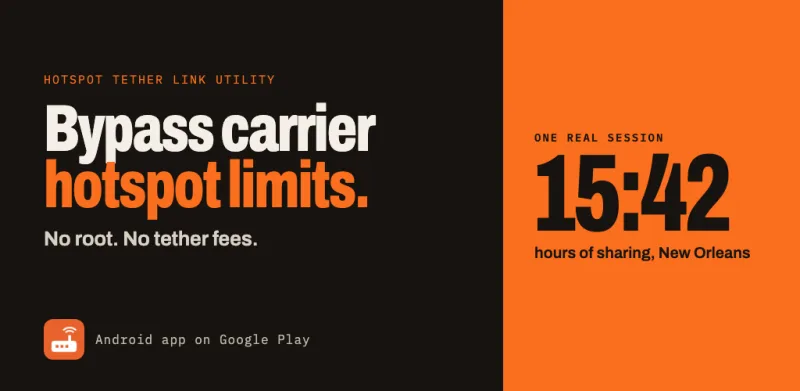
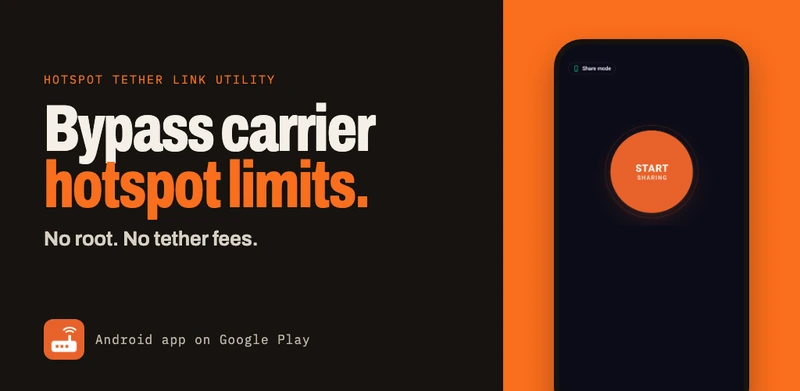
TLU card image: no city or session number

Changed region(s): [[0.6562, 0.0921, 0.9688, 1.0]]

diff --git a/tether-link-utility/index.html b/tether-link-utility/index.html
@@ -120,7 +120,7 @@
     </div>
 
     <figure class="app-shot" style="--hero-bg: linear-gradient(90deg, #EB6931, #E15C27)">
-      <img src="/assets/heroes/tether-link-utility.webp" alt="Bypass carrier hotspot limits. No root. No tether fees. Tether Link Utility, Android app on Google Play." width="800" height="391" decoding="async">
+      <img src="/assets/heroes/tether-link-utility.webp" alt="Bypass carrier hotspot limits. No root. No tether fees. Tether Link Utility for Android." width="800" height="391" decoding="async">
     </figure>
 
     <div class="prose">
